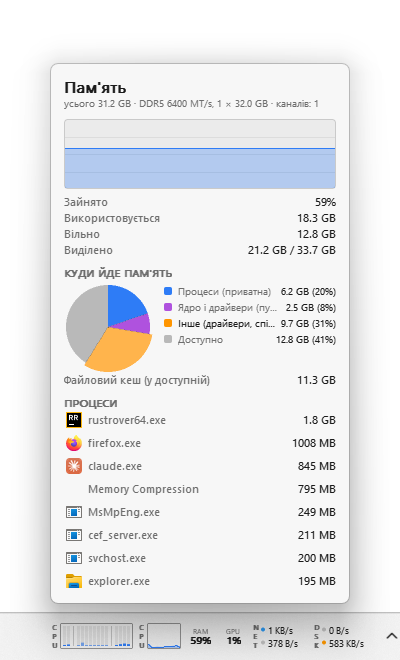
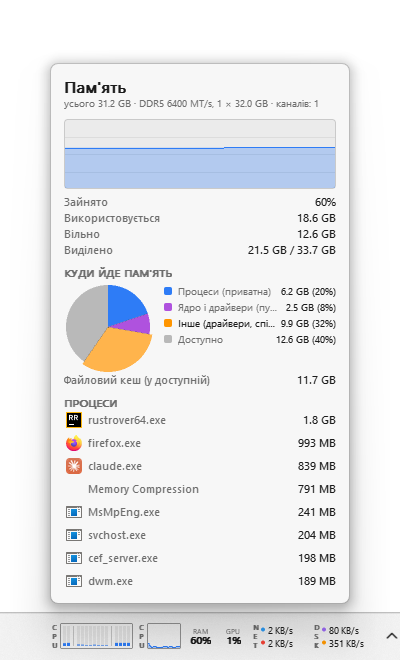
Popup: soft shadow in a layered window instead of the heavy DWM one

diff --git a/src/popup.rs b/src/popup.rs
@@ -109,6 +109,10 @@ pub struct Popup {
     content: Canvas,
     /// executable icons for the process lists
     icons: crate::procicon::IconCache,
+    /// layered window under the popup carrying its soft shadow (the non-layered modes cannot
+    /// paint outside their own rectangle); transparent to the mouse, never activated
+    shadow: HWND,
+    shadow_canvas: Canvas,
     pub kind: Option<Kind>,
     /// index of the strip widget the popup belongs to: a click on it closes the popup, a click
     /// on another widget of the same module just hands the popup over
@@ -170,8 +174,28 @@ fn create_window(hinstance: HINSTANCE, class: &str, native: crate::backdrop::Mod
 impl Popup {
     pub fn new(hinstance: HINSTANCE, class: &str, opacity: crate::backdrop::Opacity) -> Option<Self> {
         let (hwnd, backdrop, native) = create_window(hinstance, class, crate::backdrop::mode(), opacity)?;
+        let shadow = unsafe {
+            let cls = wide("WinStatsShadow");
+            CreateWindowExW(
+                WS_EX_LAYERED | WS_EX_TRANSPARENT | WS_EX_NOACTIVATE | WS_EX_TOOLWINDOW | WS_EX_TOPMOST,
+                pcwstr(&cls),
+                pcwstr(&cls),
+                WS_POPUP,
+                0,
+                0,
+                10,
+                10,
+                None,
+                None,
+                hinstance,
+                None,
+            )
+            .unwrap_or_default()
+        };
         Some(Self {
             hwnd,
+            shadow,
+            shadow_canvas: Canvas::new(),
             hinstance,
             class: class.to_string(),
             native,
@@ -321,6 +345,7 @@ impl Popup {
             let _ = reason;
             unsafe {
                 let _ = ShowWindow(self.hwnd, SW_HIDE);
+                let _ = ShowWindow(self.shadow, SW_HIDE);
             }
             self.visible = false;
             self.hidden_at = Some(Instant::now());
@@ -532,6 +557,16 @@ impl Popup {
                 let hdc = GetDC(self.hwnd);
                 self.canvas.paint_dc(hdc);
                 ReleaseDC(self.hwnd, hdc);
+                // the soft shadow in its own layered window right under the popup
+                let halo = blur + sh_dy;
+                let shadow = Color::rgba(0, 0, 0, if light { 26 } else { 70 });
+                self.shadow_canvas.resize(w + halo * 2, h + halo * 2);
+                self.shadow_canvas.clear();
+                self.shadow_canvas.fill_shadow(halo, halo, w, h, r, blur as f32, sh_dy, shadow);
+                let _ = SetWindowPos(self.shadow, self.hwnd, x - halo, y - halo, w + halo * 2, h + halo * 2, SWP_NOACTIVATE | SWP_SHOWWINDOW);
+                if let Err(e) = self.shadow_canvas.present_at(self.shadow, x - halo, y - halo) {
+                    crate::log!("shadow UpdateLayeredWindow failed: {e}");
+                }
             }
             if first {
                 let _ = SetForegroundWindow(self.hwnd);

diff --git a/src/backdrop.rs b/src/backdrop.rs
@@ -99,6 +99,13 @@ pub fn mode() -> Mode {
     }
 }
 
+/// The framed window would get the heavy shadow of an application window from DWM; the popup
+/// draws its own soft one (a layered window underneath, see popup.rs), like the system flyouts.
+unsafe fn no_dwm_shadow(hwnd: HWND) {
+    let policy = DWMNCRP_DISABLED;
+    let _ = unsafe { DwmSetWindowAttribute(hwnd, DWMWA_NCRENDERING_POLICY, &policy as *const _ as _, 4) };
+}
+
 /// Turn the backdrop on for `hwnd` (a non-layered popup) in the given theme; false when DWM
 /// refused, and the caller falls back to the layered window.
 /// A window that has had the system backdrop does not take the accent policy any more (it stays
@@ -116,12 +123,15 @@ pub fn apply(hwnd: HWND, mode: Mode, dark: bool, opacity: Opacity) -> bool {
             Mode::Layered => false,
             Mode::System => {
                 let backdrop = DWMSBT_TRANSIENTWINDOW;
-                DwmExtendFrameIntoClientArea(hwnd, &m).is_ok()
-                    && DwmSetWindowAttribute(hwnd, DWMWA_SYSTEMBACKDROP_TYPE, &backdrop as *const _ as _, 4).is_ok()
+                let ok = DwmExtendFrameIntoClientArea(hwnd, &m).is_ok()
+                    && DwmSetWindowAttribute(hwnd, DWMWA_SYSTEMBACKDROP_TYPE, &backdrop as *const _ as _, 4).is_ok();
+                no_dwm_shadow(hwnd);
+                ok
             }
             Mode::Accent => {
                 // tint as AABBGGRR over the blur, close to the flyouts
                 let color: u32 = if dark { 0x20_2020 } else { 0xF3_F3F3 };
+                no_dwm_shadow(hwnd);
                 set_accent(hwnd, ACCENT_ENABLE_ACRYLICBLURBEHIND, opacity.tint_alpha() << 24 | color)
             }
         }

diff --git a/src/main.rs b/src/main.rs
@@ -236,6 +236,7 @@ fn main() {
         register_class(hinstance, "WinStatsHidden", Some(hidden_wndproc));
         register_class(hinstance, "WinStatsBar", Some(bar_wndproc));
         register_class(hinstance, "WinStatsPopup", Some(popup_wndproc));
+        register_class(hinstance, "WinStatsShadow", Some(shadow_wndproc));
         register_class(hinstance, "WinStatsAbout", Some(about_wndproc));
     }
 
@@ -1112,6 +1113,11 @@ unsafe extern "system" fn about_wndproc(hwnd: HWND, msg: u32, wparam: WPARAM, lp
         }
         _ => unsafe { DefWindowProcW(hwnd, msg, wparam, lparam) },
     }
+}
+
+/// The popup's shadow window: nothing to handle, it never gets input.
+unsafe extern "system" fn shadow_wndproc(hwnd: HWND, msg: u32, wparam: WPARAM, lparam: LPARAM) -> LRESULT {
+    unsafe { DefWindowProcW(hwnd, msg, wparam, lparam) }
 }
 
 unsafe extern "system" fn popup_wndproc(hwnd: HWND, msg: u32, wparam: WPARAM, lparam: LPARAM) -> LRESULT {
